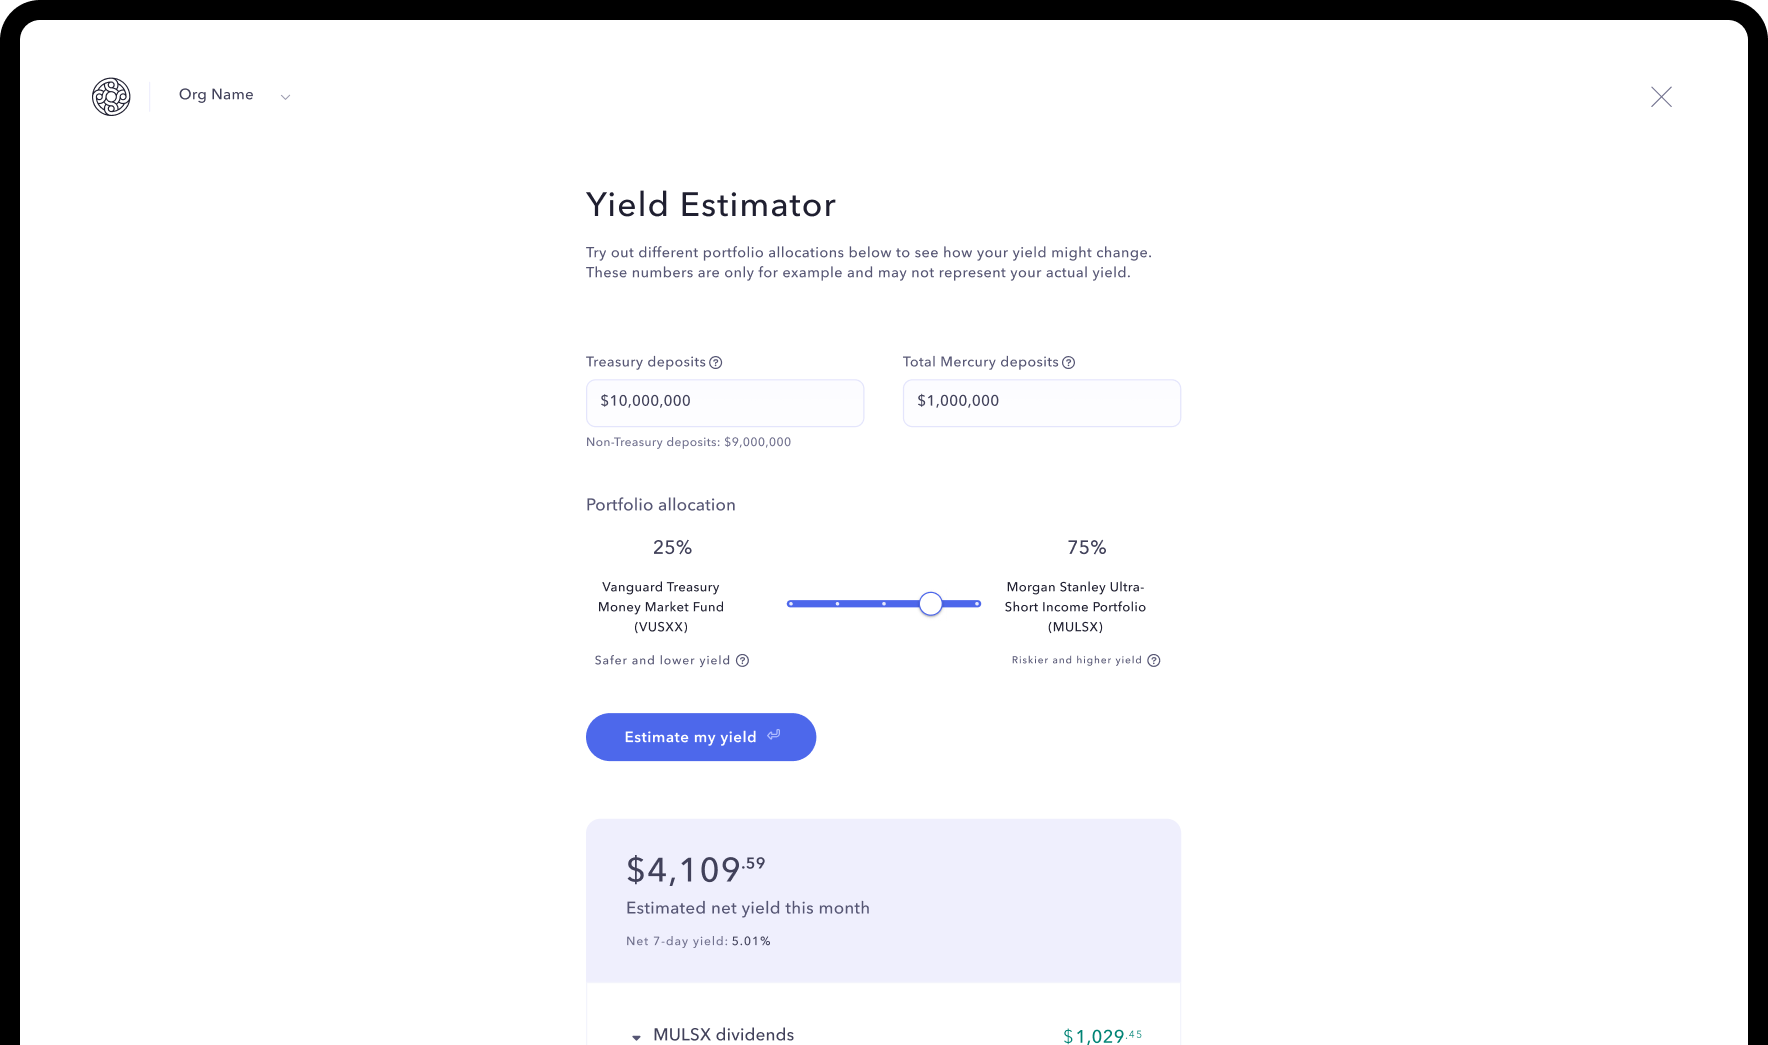
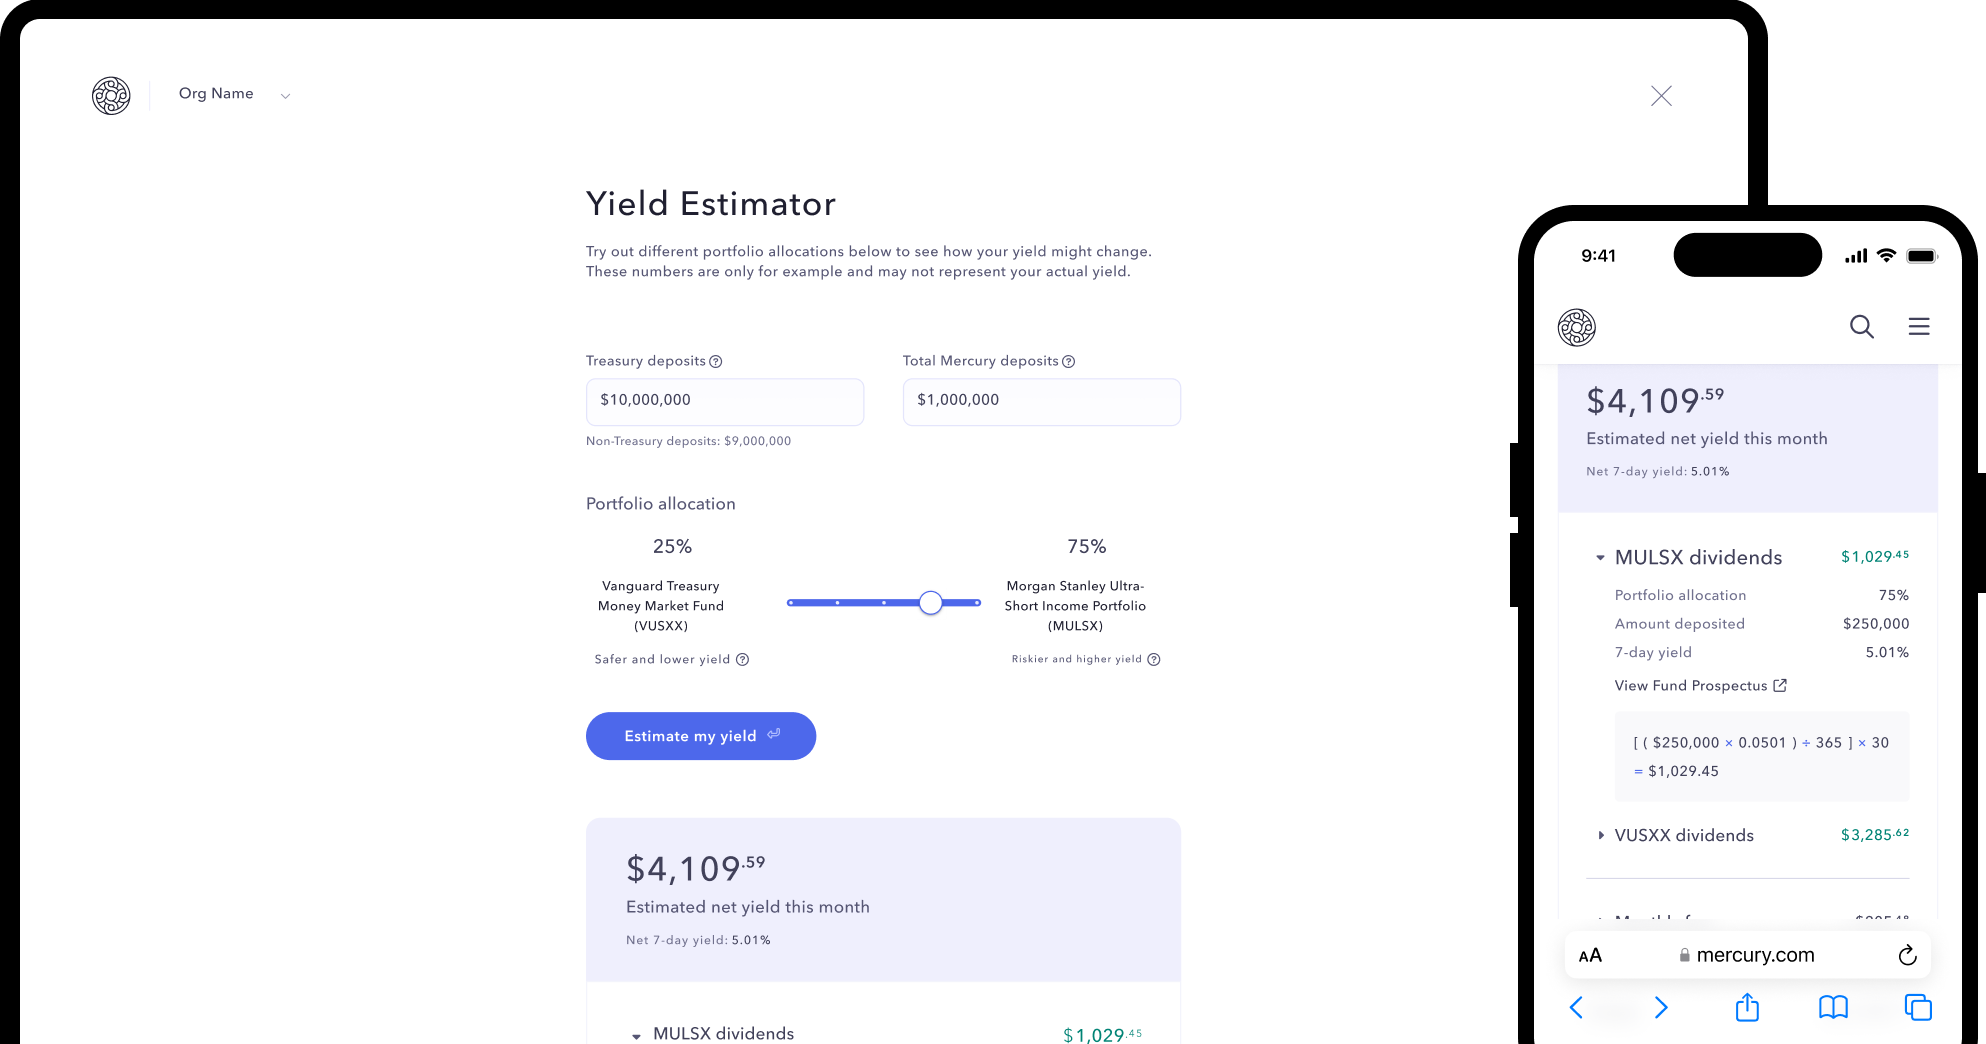
Update mercury image to add mobile

diff --git a/mercury.html b/mercury.html
@@ -57,7 +57,7 @@
 
         <div class="title-container animated fadeInUp">
 			<h1 class="title"><p class="name">Building trust in Mercury Treasury</p></h1>
-			<p class="text"><a class="link" href="https://mercury.com/" target="_blank">Mercury</a> is the complete financial stack for startups, offering checking accounts, corporate card and spend management, high-yield savings accounts, and invoicing</p>
+			<p class="text"><a class="link" href="https://mercury.com/" target="_blank">Mercury</a> is the complete financial stack for startups, offering checking accounts, corporate card and spend management, high-yield savings accounts, and invoicing.</p>
 			<p class="text"><a class="link" href="https://mercury.com/treasury" target="_blank">Treasury</a> is a unique type of Mercury account where founders can invest their idle cash into high-yield investment accounts to earn up to 5.42% annually on investments. Only startups that have over $500k in their checking accounts are eligible, making it one of Mercury’s premium products for larger, more valuable customers.</p>
 
             <div class="cs-image-container">
